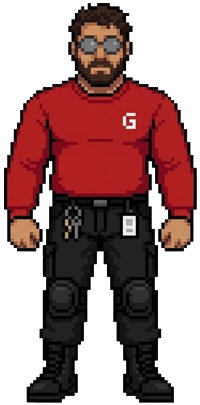
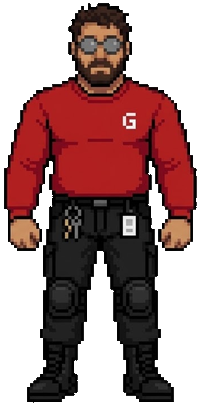
feat: PAULUX completo (speciale carica del transpallet), accovacciati senza gambe tagliate, Beppe senza alone bianco, v=36
- PAULUX: 17 pose dai fogli IMG_5477-5479, speciale da IMG_5480 (tools/build_special.py --linee):
  corpo a corpo con scatto in avanti, portata 62; vista frontale dalla tavola IMG_5476
- accovacciati: MATTEO usa l'accovacciato intero della tavola 5415 (quello in alto ha le gambe
  tagliate, ed era finito anche nel foglio esempio per Gemini, rigenerato); LUIS, ZANI, ANGEL e
  PAULUX usano la posa di slancio del salto, perche' le loro caselle erano disegnate tagliate
- BEPPE: alone bianco/grigio tolto dalla vista frontale e da guardia, camminata, colpito,
  vittoria (tools/defringe.py, applicato in automatico da build_fronts.py)
Evidenze: production/qa/evidence/paulux-v36.png, accovacciati-v36.png

Claude-Session: https://claude.ai/code/session_01P1JT64VZ5V9vmBLWg7Znu1

diff --git a/index.html b/index.html
@@ -150,7 +150,7 @@ const CH=[
 {n:'MATTEO',ms:'CARRELLO VOLANTE',sk:'#c99068',h:'#4a2c1a',hs:'curl',sh:'#d42a2a',pa:'#16161c',bt:'#4a2f1c',lg:1,ac:'gl',sp:1.5,pw:1.05},
 {n:'FALSA',ms:'RISATA AL TELEFONO',sk:'#f3d2b4',h:'#f1d36a',hs:'long',sh:'#f4f4f4',pa:'#2a3a6a',bt:'#222',sp:1.8,pw:.9},
 {n:'ANGEL',ms:'PICCHIATA ANGELICA',sk:'#eac4a0',h:'#6b4a2b',hs:'short',sh:'#f4f4f4',pa:'#2b2b33',bt:'#222',ac:'wing',sp:1.6,pw:1},
-{n:'PAULUX',sk:'#dba37a',h:'#0d0b0a',hs:'slick',sh:'#16161c',pa:'#e8821e',bt:'#2a1a10',ac:'beard',sp:1.3,pw:1.3,big:1}];
+{n:'PAULUX',ms:'CARICA DEL TRANSPALLET',sk:'#dba37a',h:'#0d0b0a',hs:'slick',sh:'#16161c',pa:'#e8821e',bt:'#2a1a10',ac:'beard',sp:1.3,pw:1.3,big:1}];
 const TOR=[6,5,7],TLV=[2,3,5];
 const AR=[{n:'REPARTO ALIMENTARI',p:['#e8c24a','#4aa0e0','#6bbf59','#d9582b','#9b59b6']},{n:'REPARTO DETERSIVI',p:['#3aa0e8','#f2f2f2','#e8503a','#58c0a0','#f0d040']},{n:'ORTOFRUTTA',p:['#d9402b','#f0a030','#6bbf59','#8a5a2a','#c0e050']},{n:'REPARTO SURGELATI',p:['#9ad8f0','#f2f2f2','#4a80d8','#e07090','#c0c8e0']}];
 /* ---------- sfondo ---------- */
@@ -184,7 +184,7 @@ function R(x,y,w,h,col){c.fillStyle='#07070c';c.fillRect(x-1,y-1,w+2,h+2);c.fill
 /* sprite dei personaggi: 1 riga per animazione in assets/characters/<nome>/, corpo in piedi normalizzato a 400px, piedi sul bordo inferiore, rivolti a destra.
    n = frame per animazione; pj = proiettile dello speciale (pjn frame); spT = soglie (tick) dei frame dello speciale se diverse dallo standard.
    hit/win sono opzionali: se mancano si usa la posa idle (inclinata quando colpito). */
-const SPRB=400,VER=34,SPRSET={
+const SPRB=400,VER=36,SPRSET={
 BEPPE:{d:'beppe',n:{idle:4,walk:4,punch:5,kick:5,heavy:5,jump:3,block:1,crouch:1,special:3,hit:1,fall:3,ko:1,win:2},pj:'pallet',pjn:1,pjw:46.9,pjh:44.3,pjo:[12.5,-23.8],spT:[6,11]},
 MATTEO:{d:'matteo',n:{idle:1,walk:2,punch:5,kick:5,heavy:5,jump:3,block:1,crouch:1,special:3,hit:1,fall:3,ko:1,win:3},pj:'matteo-cart',pjn:3,spT:[5,11]},
 VLAD:{d:'vlad',sc:1.05,n:{idle:1,walk:2,punch:5,kick:5,heavy:5,jump:3,block:1,crouch:1,special:3,hit:1,fall:2,ko:1,win:2},pj:'vlad-spray',pjn:3,pjs:.6,pjo:[33.8,-83.5],pji:1,spT:[5,11]},
@@ -196,7 +196,10 @@ ZANI:{d:'zani',n:{idle:1,walk:2,punch:5,kick:5,heavy:5,jump:3,block:1,crouch:1,s
 FALSA:{d:'falsa',n:{idle:1,walk:2,punch:5,kick:5,heavy:5,jump:3,block:1,crouch:1,special:3,hit:1,fall:2,ko:1,win:2},pj:'falsa-laugh',pjn:3,pjs:.7,pjo:[12.7,-89.5],pjg:1,spT:[5,11]},
 /* ANGEL: pose da tools/build_character.py, speciale da tools/build_special.py; corpo a corpo con
    dash = velocita' dello scatto in avanti e hop = spinta verso l'alto (volo in picchiata) */
-ANGEL:{d:'angel',n:{idle:1,walk:2,punch:5,kick:5,heavy:5,jump:3,block:1,crouch:1,special:4,hit:1,fall:2,ko:1,win:2},ml:50,dash:4.2,hop:4.2,spT:[4,9,13]}};
+ANGEL:{d:'angel',n:{idle:1,walk:2,punch:5,kick:5,heavy:5,jump:3,block:1,crouch:1,special:4,hit:1,fall:2,ko:1,win:2},ml:50,dash:4.2,hop:4.2,spT:[4,9,13]},
+/* PAULUX (boss, gia' piu' grande con L.big): pose da tools/build_character.py, speciale da
+   tools/build_special.py --linee: sale sul transpallet e carica, corpo a corpo con scatto (dash) */
+PAULUX:{d:'paulux',n:{idle:1,walk:2,punch:5,kick:5,heavy:5,jump:3,block:1,crouch:1,special:4,hit:1,fall:2,ko:1,win:2},ml:62,dash:5,spT:[4,9,14]}};
 /* proiettile a più frame: pjh altezza e pjy bordo superiore (rispetto alla linea del proiettile), pji = il 1o frame è solo l'avvio;
    pjg = l'effetto cresce frame dopo frame e resta sull'ultimo (onda di LUIS);
    sc = scala del personaggio (es. Vlad un po' più alto); pjo = [avanti, altezza] del punto di uscita rispetto ai piedi (es. ugello dello spruzzino), pjs = scala rispetto agli sprite:

diff --git a/tools/defringe.py b/tools/defringe.py
@@ -1,0 +1,67 @@
+"""Toglie l'alone chiaro sul contorno degli sprite (residuo di uno sfondo bianco o grigio chiaro):
+rende trasparenti, a strati dal bordo verso l'interno, i pixel chiari e poco saturi che toccano la
+trasparenza. Si ferma al primo pixel scuro o colorato (il contorno nero del disegno), quindi i
+bianchi interni (G, cartellino, occhiali, camicia) restano. Al massimo --strati passate.
+Uso: python3 -B tools/defringe.py FILE.png [...] [--strati 4]"""
+import argparse
+import numpy as np
+from PIL import Image
+from scipy import ndimage as nd
+
+
+def harden(path):
+    """Bordo netto da pixel art: alfa tutto o niente (soglia 128) e, sul contorno, via i pixel
+    grigio medio quasi neutri rimasti dall'alone sfumato. Il contorno nero (scuro) resta."""
+    a = np.asarray(Image.open(path).convert('RGBA')).astype(np.int32)
+    R, G, B = (a[..., i] for i in range(3))
+    mx, mn = np.maximum(np.maximum(R, G), B), np.minimum(np.minimum(R, G), B)
+    alpha = np.where(a[..., 3] >= 128, 255, 0)
+    edge = nd.binary_dilation(alpha == 0) & (alpha > 0)
+    gray = (mn > 58) & (mx - mn < 22)
+    kill = edge & gray
+    alpha[kill] = 0
+    out = a.copy()
+    out[..., 3] = alpha
+    out[alpha == 0] = 0
+    Image.fromarray(out.astype(np.uint8), 'RGBA').save(path, optimize=True)
+    return int(kill.sum())
+
+
+def defringe(path, layers=4):
+    a = np.asarray(Image.open(path).convert('RGBA')).astype(np.int32)
+    R, G, B, A = (a[..., i] for i in range(4))
+    mx, mn = np.maximum(np.maximum(R, G), B), np.minimum(np.minimum(R, G), B)
+    # bianco e grigio chiaro, piu' il grigio medio quasi neutro dell'alone sfumato del JPEG
+    light = ((mn > 120) & (mx - mn < 50)) | ((mn > 85) & (mx - mn < 18))
+    alpha = A.copy()
+    removed = 0
+    for _ in range(layers):
+        edge = nd.binary_dilation(alpha < 20) & (alpha >= 20)
+        kill = edge & light
+        if not kill.any():
+            break
+        alpha[kill] = 0
+        removed += int(kill.sum())
+    # puntini staccati: piccoli gruppi isolati di pixel soprattutto chiari
+    lab, n = nd.label(alpha >= 20)
+    if n:
+        sizes = nd.sum(np.ones_like(alpha), lab, range(1, n + 1))
+        lightf = nd.mean(light.astype(float), lab, range(1, n + 1))
+        for i in np.where((sizes < 40) & (lightf > 0.3))[0]:
+            m = lab == i + 1
+            removed += int(m.sum())
+            alpha[m] = 0
+    out = a.copy()
+    out[..., 3] = alpha
+    out[alpha == 0] = 0
+    Image.fromarray(out.astype(np.uint8), 'RGBA').save(path, optimize=True)
+    return removed
+
+
+if __name__ == '__main__':
+    ap = argparse.ArgumentParser(description=__doc__, formatter_class=argparse.RawDescriptionHelpFormatter)
+    ap.add_argument('files', nargs='+')
+    ap.add_argument('--strati', type=int, default=4)
+    a = ap.parse_args()
+    for f in a.files:
+        print(f, 'pixel di alone tolti:', defringe(f, a.strati))

diff --git a/tools/build_special.py b/tools/build_special.py
@@ -33,6 +33,9 @@ def main():
     ap.add_argument('--griglia', action='store_true',
                     help='la tavola ha la griglia azzurra dei fogli pose: toglie linee ed etichette e '
                          'ordina le pose per righe (prima la riga in alto, da sinistra)')
+    ap.add_argument('--linee', action='store_true',
+                    help='la tavola e\' divisa da linee scure a tutta lunghezza: le toglie e ordina '
+                         'le pose per righe (prima la riga in alto, da sinistra)')
     ap.add_argument('--usa', metavar='I,J,...',
                     help='quali figure usare e in che ordine (indici dopo l\'ordinamento, da 0)')
     ap.add_argument('--scala', type=float,
@@ -45,8 +48,16 @@ def main():
         o = load_sheet(a.sheet, 'A')
     else:
         o = key(a.sheet)
-    full_alpha = o[..., 3].copy()
     H, W = o.shape[:2]
+    if a.linee:
+        dark = (o[..., 3] > 40) & (o[..., :3].max(-1) < 90)
+        for axis, n in ((0, H), (1, W)):
+            full = np.convolve(dark.sum(axis) > 0.8 * n, np.ones(7), 'same') > 0
+            if axis == 0:
+                o[:, full, 3] = 0
+            else:
+                o[full, :, 3] = 0
+    full_alpha = o[..., 3].copy()
     yy, xx = np.mgrid[:H, :W]
     lines = []
     for t in a.taglio:
@@ -61,7 +72,7 @@ def main():
             gap |= (np.abs(yy - v[i]) <= 4) & (xx >= lo) & (xx <= hi)
         o[..., 3][gap] = 0
         lines.append(line)
-    if a.griglia:
+    if a.griglia or a.linee:
         allf = figures(o)
         big = max(f['mask'].sum() for f in allf)
         figs = sorted([f for f in allf if f['mask'].sum() > 0.25 * big],

diff --git a/tools/build_fronts.py b/tools/build_fronts.py
@@ -20,6 +20,7 @@ BOARDS = {   # personaggio -> tavola di riferimento
     'angel': 'angel/sorgenti/IMG_5469.jpeg',
     'falsa': 'falsa/sorgenti/tavola.png',
     'beppe': 'beppe/sorgenti/tavola.JPG',      # sfondo BIANCO (vedi white_key)
+    'paulux': 'paulux/sorgenti/IMG_5476.jpeg',
 }
 WHITE_BG = {'beppe'}
 
@@ -49,5 +50,10 @@ for name, board in BOARDS.items():
     ys = np.where(idle[..., 3].max(1) > 128)[0]
     target = ys.max() - ys.min() + 1                  # altezza della guardia nello sprite
     k = target / float(front['y1'] - front['y0'] + 1)
-    write_sheet(CH + '%s/%s-front.png' % (name, name), [frame_from_mask(o, front['mask'], k)])
-    print('%s-front.png: scala %.3f, alta %d px' % (name, k, target))
+    out = CH + '%s/%s-front.png' % (name, name)
+    write_sheet(out, [frame_from_mask(o, front['mask'], k)])
+    extra = ''
+    if name in WHITE_BG:            # sfondo bianco: toglie l'alone chiaro sul contorno
+        from defringe import defringe, harden
+        extra = ', alone tolto: %d px + bordo grigio %d px' % (defringe(out), harden(out))
+    print('%s-front.png: scala %.3f, alta %d px%s' % (name, k, target, extra))

diff --git a/tools/build_matteo_sprites.py b/tools/build_matteo_sprites.py
@@ -38,7 +38,9 @@ j = [fig(5414, i, K_JUMP) for i in range(4)]
 # la posa di stacco (j[1]) ha il braccio tagliato nella tavola: stacco/atterraggio in guardia, raccolto all'apice
 sheet('jump', [j[3], j[2], j[3]])
 sheet('block', [fig(5415, 0)])
-sheet('crouch', [fig(5415, 3)])
+# nella colonna destra di 5415 ci sono due accovacciati uno sopra l'altro: quello in alto (indice 3)
+# ha le gambe tagliate, quello in basso (indice 2) e' intero
+sheet('crouch', [fig(5415, 2)])
 f = [fig(5416, i) for i in range(3)]
 sheet('hit', [f[0]])
 sheet('fall', f)

diff --git a/README.md b/README.md
@@ -31,7 +31,7 @@ Ogni push su `main` pubblica il gioco su GitHub Pages (`.github/workflows/deploy
 | ZANI | sprite disegnati (`assets/characters/zani/`) | Taglierino furioso (corpo a corpo) |
 | FALSA | sprite disegnati (`assets/characters/falsa/`) | Risata al telefono (onda sonora) |
 | ANGEL | sprite disegnati (`assets/characters/angel/`) | Picchiata angelica (volo corpo a corpo) |
-| PAULUX (boss) | disegno procedurale | Carrellino |
+| PAULUX (boss) | sprite disegnati (`assets/characters/paulux/`) | Carica del transpallet (corpo a corpo) |
 
 ## Comandi
 
@@ -74,6 +74,8 @@ assets/
       sorgenti/                tavola.png, foglio-A/B/C.png, speciale IMG_5474
     angel/                     angel-<animazione>.png (speciale corpo a corpo, senza proiettile)
       sorgenti/                tavola IMG_5469, fogli pose IMG_5470–5472, speciale IMG_5473
+    paulux/                    paulux-<animazione>.png (speciale corpo a corpo col transpallet)
+      sorgenti/                tavola IMG_5476, fogli pose IMG_5477–5479, speciale IMG_5480
 docs/reference/                immagini di riferimento per lo stile
 docs/sprite-guide/             fogli pose e prompt per creare un personaggio con Gemini
 tools/
